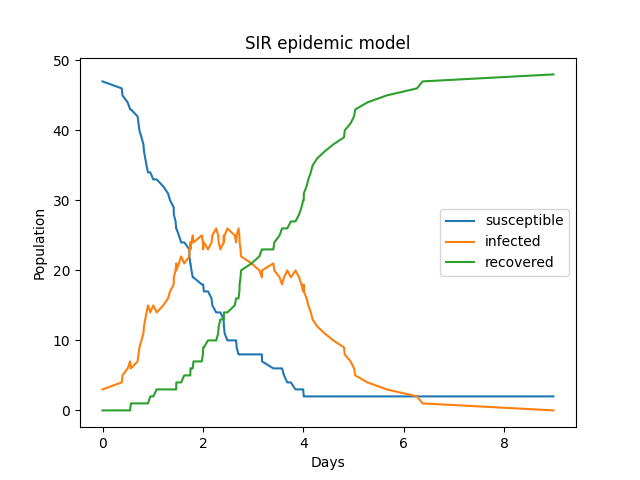
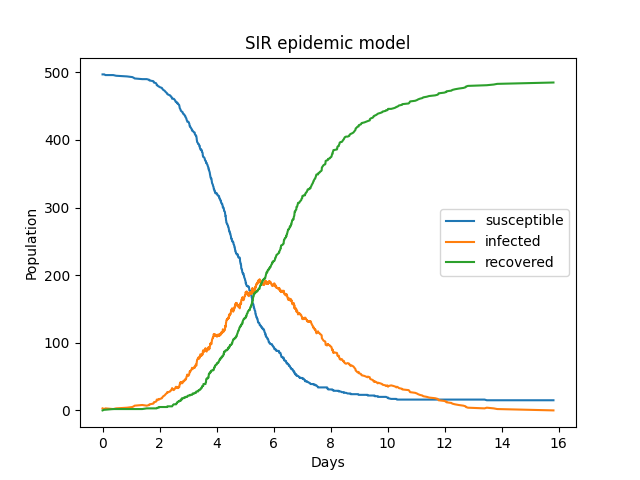
Change SIR scale

diff --git a/examples/epidemics/sir.py b/examples/epidemics/sir.py
@@ -1,13 +1,15 @@
-import gillespie
 import matplotlib.pyplot as plt
 
+import src as gillespie
+
 if __name__ == '__main__':
-    N = 50  # whole population
+    N = 500  # whole population
     beta = 2  # transmission rate
     gamma = 0.5  # recovery rate
     t = 15  # duration
 
-    initials = [47, 3, 0]  # S, I, R
+    I0 = 3
+    initials = [N - I0, I0, 0]  # S, I, R
 
     propensities = [lambda s, i, r: beta * s * i / N,  # S -> I, Propensity: b * S(t) * I(t) / N
                     lambda s, i, r: gamma * i]  # I -> R Propensity: g * I(t)
